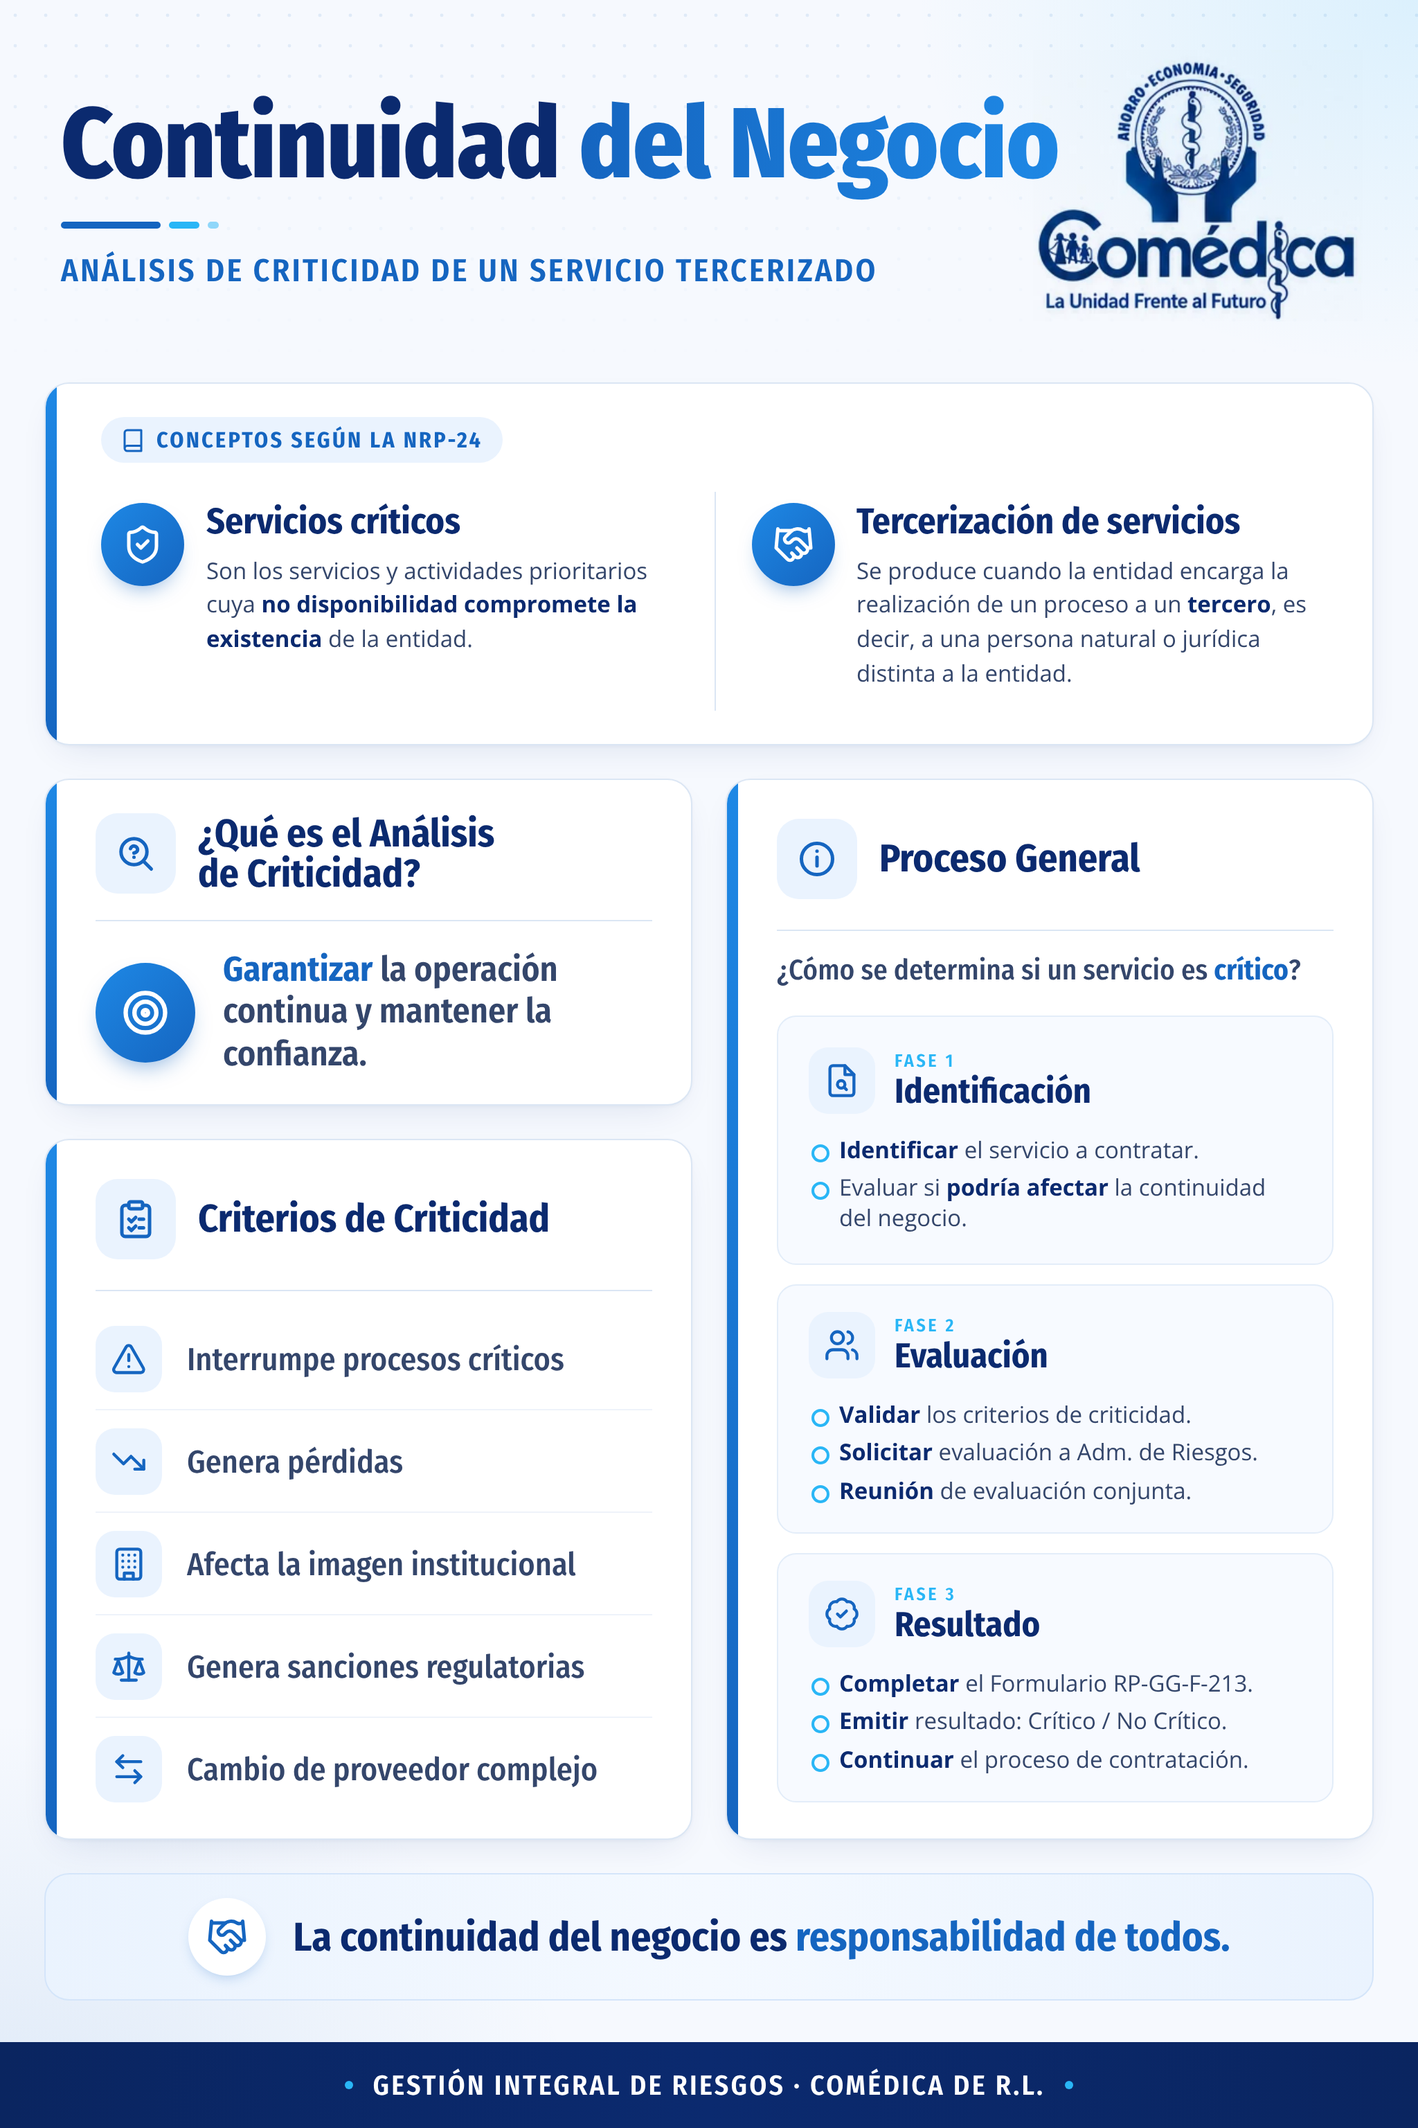
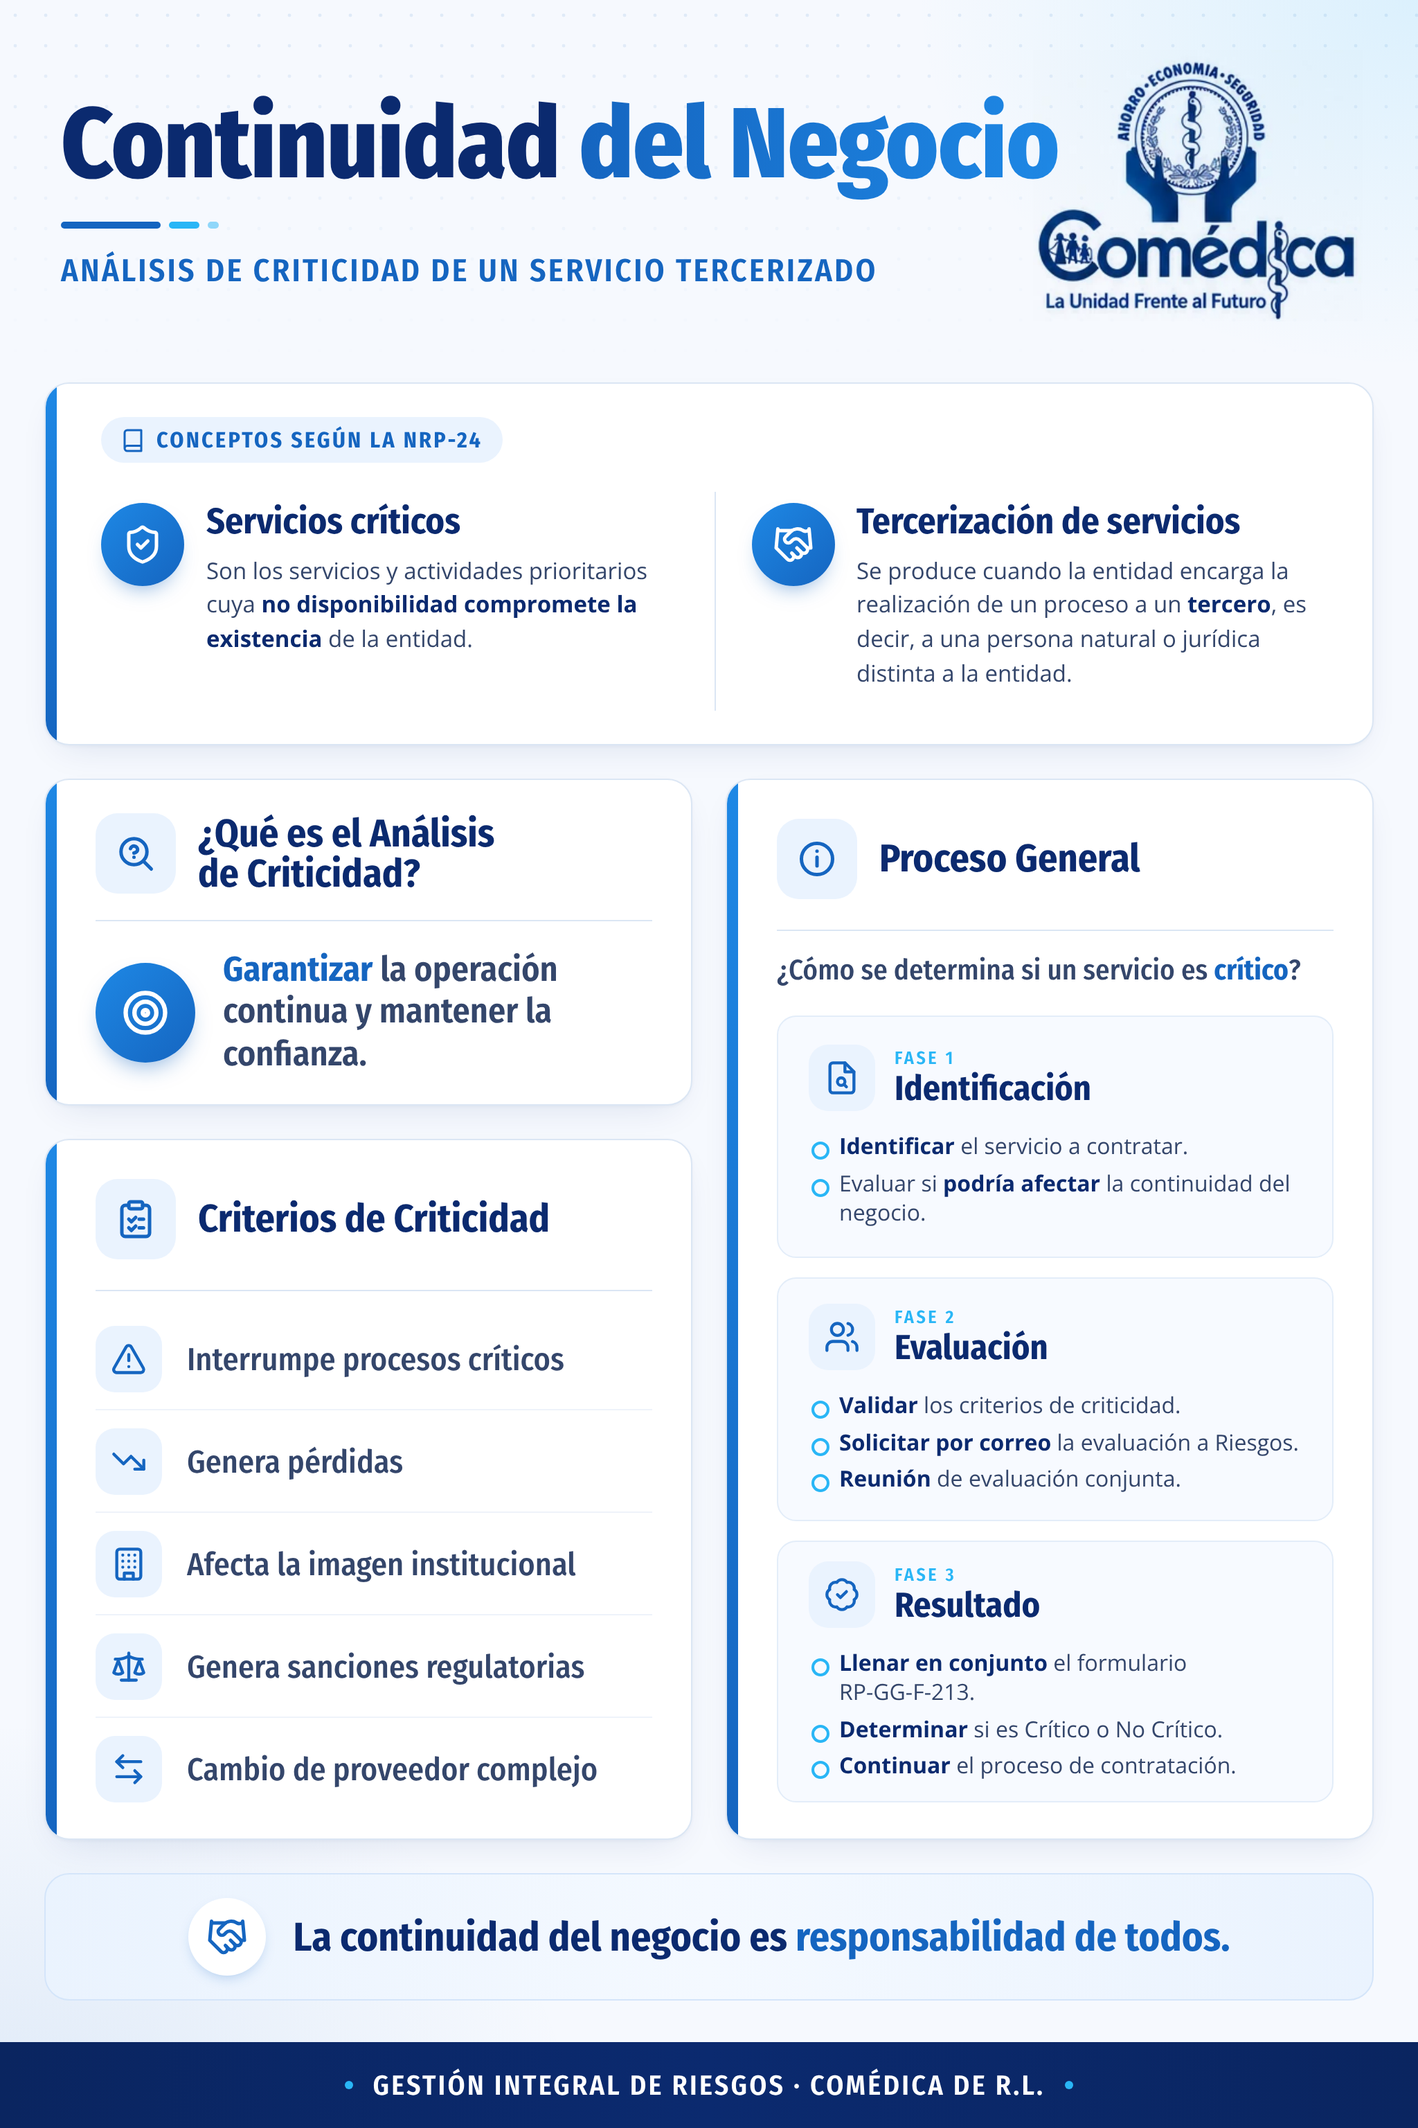
Two final options (modern and classic); request by email, joint form RP-GG-F-213
Claude-Session: https://claude.ai/code/session_013QquNuL1JEfsvtRZYgMi7y

Changed region(s): [[0.5625, 0.5, 0.9062, 0.8438]]

diff --git a/boletin-continuidad-negocios/fuente/opcion2_clasica.html b/boletin-continuidad-negocios/fuente/opcion2_clasica.html
@@ -1,0 +1,73 @@
+<!doctype html><html lang="es"><head><meta charset="utf-8">
+<link href="https://fonts.googleapis.com/css2?family=Fira+Sans+Condensed:wght@500;600;700;800&family=Open+Sans:wght@400;600;700&display=swap" rel="stylesheet">
+<style>
+*{box-sizing:border-box;margin:0;padding:0}
+:root{--navy:#0b2a6f;--d:#0a2d77;--blue:#1565c0;--b2:#1e88e5;--sky:#29b6f6;--line:#cfe0f4;--txt:#24395f}
+body{width:1024px;height:1536px;font-family:'Open Sans',sans-serif;position:relative;overflow:hidden;background:linear-gradient(180deg,#eef4fc 0%,#fff 30%,#fff 70%,#eaf2fc 100%)}
+svg.i{fill:none;stroke:currentColor;stroke-width:2;stroke-linecap:round;stroke-linejoin:round}
+.cor{position:absolute;top:0;left:0;width:240px;height:96px;background:linear-gradient(135deg,var(--blue) 0 28%,transparent 28%),linear-gradient(135deg,transparent 32%,var(--sky) 32% 37%,transparent 37%)}
+.cor2{position:absolute;bottom:66px;right:0;width:200px;height:60px;background:linear-gradient(315deg,#d6e6f8 0 40%,transparent 40%)}
+.title{position:absolute;top:82px;left:32px;font-family:'Fira Sans Condensed';font-weight:800;font-size:64px;line-height:1;color:#fff;padding:18px 30px 22px;border-radius:18px;background:linear-gradient(90deg,var(--d),var(--blue));box-shadow:0 12px 24px -10px rgba(10,45,119,.55)}
+.rule{position:absolute;top:202px;left:36px;width:380px;height:5px;border-radius:3px;background:linear-gradient(90deg,var(--blue),var(--sky))}
+.sub{position:absolute;top:222px;left:36px;font-family:'Fira Sans Condensed';font-weight:700;font-size:24px;letter-spacing:.6px;color:var(--blue)}
+.logo{position:absolute;top:34px;right:30px;width:250px;mix-blend-mode:multiply}
+.ban{position:absolute;top:278px;left:24px;right:24px;height:268px;border-radius:22px;overflow:hidden;background:linear-gradient(115deg,var(--d) 0%,#0d47a8 60%,var(--blue) 100%);box-shadow:0 14px 30px -14px rgba(10,45,119,.6);color:#fff}
+.ban .wm{position:absolute;right:-20px;top:-10px;width:300px;height:300px;color:rgba(255,255,255,.06)}
+.ban .wm svg{width:100%;height:100%;stroke-width:1.2}
+.ban .tg{position:absolute;left:36px;top:26px;font-family:'Fira Sans Condensed';font-weight:700;font-size:17px;letter-spacing:2px;color:var(--sky);display:flex;align-items:center;gap:10px}
+.ban .tg::before{content:"";width:28px;height:3px;background:var(--sky);border-radius:2px}
+.cols{position:absolute;left:36px;right:32px;top:72px;bottom:26px;display:flex;gap:28px}
+.cc{flex:1;display:flex;gap:16px}
+.ci{width:58px;height:58px;border-radius:50%;border:2px solid rgba(255,255,255,.55);background:rgba(255,255,255,.1);display:flex;align-items:center;justify-content:center;flex:none}
+.ci svg{width:28px;height:28px}
+.cc h3{font-family:'Fira Sans Condensed';font-weight:700;font-size:26px;line-height:1.1}
+.cc p{margin-top:8px;font-size:16.5px;line-height:1.5;color:#dbe8ff}
+.cc p b{color:#fff}
+.vd{width:1px;background:rgba(255,255,255,.22)}
+.card{position:absolute;left:24px;width:484px;background:#fff;border:2px solid var(--line);border-radius:18px;box-shadow:0 6px 16px -8px rgba(13,71,168,.2)}
+.card .hd{height:92px;border-radius:16px 16px 0 0;background:linear-gradient(90deg,var(--d),var(--blue));display:flex;align-items:center;gap:16px;padding-left:22px;color:#fff;font-family:'Fira Sans Condensed';font-weight:700;font-size:30px;line-height:1.05}
+.bd{width:62px;height:62px;border-radius:50%;background:#fff;color:var(--blue);display:flex;align-items:center;justify-content:center;flex:none;box-shadow:0 0 0 4px rgba(255,255,255,.25)}
+.bd svg{width:32px;height:32px}
+.c1{top:572px;height:236px}
+.c1 .b{display:flex;align-items:center;gap:20px;padding:30px 26px 0}
+.c1 .tg2{width:84px;height:84px;border-radius:50%;background:linear-gradient(135deg,var(--b2),var(--blue));color:#fff;display:flex;align-items:center;justify-content:center;flex:none}
+.c1 .tg2 svg{width:44px;height:44px}
+.c1 p{border-left:3px solid var(--blue);padding-left:18px;font-family:'Fira Sans Condensed';font-weight:600;font-size:27px;line-height:1.2;color:var(--navy)}
+.c2{top:832px;height:478px}
+.c2 ul{list-style:none;padding:20px 26px 0 30px}
+.c2 li{height:70px;display:flex;align-items:center;gap:18px;border-bottom:1px solid #edf3fb;font-family:'Fira Sans Condensed';font-weight:500;font-size:24px;color:var(--navy)}
+.c2 li:last-child{border-bottom:none}
+.ar{width:20px;height:24px;background:linear-gradient(90deg,var(--blue),var(--sky));clip-path:polygon(0 0,45% 0,100% 50%,45% 100%,0 100%,55% 50%);flex:none}
+.steps{position:absolute;top:566px;left:530px;right:24px}
+.st{height:93px;display:flex;align-items:center;border-bottom:1.5px solid #dbe7f5}
+.st:last-child{border-bottom:none}
+.n{width:56px;height:56px;border-radius:50%;background:radial-gradient(circle at 35% 30%,#3b8ae6,var(--d));color:#fff;font-family:'Fira Sans Condensed';font-weight:800;font-size:30px;display:flex;align-items:center;justify-content:center;flex:none;box-shadow:0 6px 12px -6px rgba(10,45,119,.7)}
+.ic{width:62px;height:62px;border-radius:50%;border:2px solid var(--blue);color:var(--blue);margin-left:12px;display:flex;align-items:center;justify-content:center;flex:none;background:#fff}
+.ic svg{width:30px;height:30px}
+.l{margin-left:18px;font-family:'Fira Sans Condensed';font-weight:600;font-size:19.5px;line-height:1.18;color:var(--blue)}
+.close{position:absolute;left:90px;right:90px;top:1336px;height:100px;background:#fff;border:2px solid var(--line);border-radius:18px;display:flex;align-items:center;justify-content:center;gap:26px;box-shadow:0 6px 16px -8px rgba(13,71,168,.2)}
+.close .h{width:74px;height:74px;border-radius:50%;background:linear-gradient(135deg,var(--b2),var(--d));color:#fff;display:flex;align-items:center;justify-content:center}
+.close .h svg{width:40px;height:40px}
+.close p{border-left:3px solid var(--navy);padding-left:24px;font-family:'Fira Sans Condensed';font-weight:700;font-size:31px;line-height:1.08;color:var(--navy)}
+.foot{position:absolute;bottom:0;left:0;right:0;height:66px;background:linear-gradient(90deg,var(--d),var(--blue),var(--d));color:#fff;display:flex;align-items:center;justify-content:center;font-family:'Fira Sans Condensed';font-weight:600;font-size:22px;letter-spacing:.8px}
+</style></head><body>
+<div class="cor"></div><div class="cor2"></div>
+<div class="title">Continuidad del Negocio</div><div class="rule"></div>
+<div class="sub">ANÁLISIS DE CRITICIDAD DE UN SERVICIO TERCERIZADO</div>
+<img class="logo" src="logo.png" alt="Comédica">
+<div class="ban">
+  <div class="wm"><svg viewBox="0 0 24 24" class="i"><path d="M20 13c0 5-3.5 7.5-7.7 9a1 1 0 0 1-.7 0C7.5 20.5 4 18 4 13V6a1 1 0 0 1 1-1c2 0 4.5-1.2 6.2-2.7a1.2 1.2 0 0 1 1.5 0C14.5 3.8 17 5 19 5a1 1 0 0 1 1 1z"/><path d="m9 12 2 2 4-4"/></svg></div>
+  <div class="tg">CONCEPTOS SEGÚN LA NRP-24</div>
+  <div class="cols">
+    <div class="cc"><div class="ci"><svg viewBox="0 0 24 24" class="i"><path d="M20 13c0 5-3.5 7.5-7.7 9a1 1 0 0 1-.7 0C7.5 20.5 4 18 4 13V6a1 1 0 0 1 1-1c2 0 4.5-1.2 6.2-2.7a1.2 1.2 0 0 1 1.5 0C14.5 3.8 17 5 19 5a1 1 0 0 1 1 1z"/><path d="m9 12 2 2 4-4"/></svg></div><div><h3>Servicios críticos</h3><p>Son los servicios y actividades prioritarios cuya <b>no disponibilidad compromete la existencia</b> de la entidad.</p></div></div>
+    <div class="vd"></div>
+    <div class="cc"><div class="ci"><svg viewBox="0 0 24 24" class="i"><path d="m11 17 2 2a1 1 0 1 0 3-3"/><path d="m14 14 2.5 2.5a1 1 0 1 0 3-3l-3.88-3.88a3 3 0 0 0-4.24 0l-.88.88a1 1 0 1 1-3-3l2.81-2.81a5.79 5.79 0 0 1 7.06-.87l.47.28a2 2 0 0 0 1.42.25L21 4"/><path d="m21 3 1 11h-2"/><path d="M3 3 2 14l6.5 6.5a1 1 0 1 0 3-3"/><path d="M3 4h8"/></svg></div><div><h3>Tercerización de servicios</h3><p>Se produce cuando la entidad encarga la realización de un proceso a un <b>tercero</b>, es decir, a una persona natural o jurídica distinta a la entidad.</p></div></div>
+  </div>
+</div>
+<div class="card c1"><div class="hd"><div class="bd"><svg class="i" viewBox="0 0 24 24"><circle cx="11" cy="11" r="7.5"/><path d="m21 21-4.6-4.6"/><path d="M9 9.2a2.1 2.1 0 0 1 4.1.6c0 1.4-2.1 2-2.1 2"/><path d="M11 14.2h.01"/></svg></div>¿Qué es el Análisis<br>de Criticidad?</div>
+  <div class="b"><div class="tg2"><svg class="i" viewBox="0 0 24 24"><circle cx="12" cy="12" r="9"/><circle cx="12" cy="12" r="5"/><circle cx="12" cy="12" r="1.2"/></svg></div><p>Garantizar la operación continua y mantener la confianza.</p></div></div>
+<div class="card c2"><div class="hd"><div class="bd"><svg class="i" viewBox="0 0 24 24"><rect width="8" height="4" x="8" y="2" rx="1"/><path d="M16 4h2a2 2 0 0 1 2 2v14a2 2 0 0 1-2 2H6a2 2 0 0 1-2-2V6a2 2 0 0 1 2-2h2"/><path d="m8 12 1.5 1.5L12 11"/><path d="M14 12h2.5"/><path d="m8 17 1.5 1.5L12 16"/><path d="M14 17h2.5"/></svg></div>Criterios de Criticidad</div><ul><li><span class="ar"></span>Interrumpe procesos críticos</li><li><span class="ar"></span>Genera pérdidas</li><li><span class="ar"></span>Afecta la imagen institucional</li><li><span class="ar"></span>Genera sanciones regulatorias</li><li><span class="ar"></span>Cambio de proveedor complejo</li></ul></div>
+<div class="steps"><div class="st"><div class="n">1</div><div class="ic"><svg class="i" viewBox="0 0 24 24"><path d="M14 2H6a2 2 0 0 0-2 2v16a2 2 0 0 0 2 2h12a2 2 0 0 0 2-2V8z"/><path d="M14 2v6h6"/><circle cx="11.5" cy="14.5" r="2.5"/><path d="M13.3 16.3 15 18"/></svg></div><div class="l">Identificar el servicio</div></div><div class="st"><div class="n">2</div><div class="ic"><svg class="i" viewBox="0 0 24 24"><path d="M20 13c0 5-3.5 7.5-7.7 9a1 1 0 0 1-.7 0C7.5 20.5 4 18 4 13V6a1 1 0 0 1 1-1c2 0 4.5-1.2 6.2-2.7a1.2 1.2 0 0 1 1.5 0C14.5 3.8 17 5 19 5a1 1 0 0 1 1 1z"/><path d="M9.6 9.5a2.5 2.5 0 0 1 4.8.8c0 1.7-2.4 2.3-2.4 2.3"/><path d="M12 16h.01"/></svg></div><div class="l">¿Podría afectar la continuidad<br>del negocio? (Evaluación)</div></div><div class="st"><div class="n">3</div><div class="ic"><svg class="i" viewBox="0 0 24 24"><rect width="8" height="4" x="8" y="2" rx="1"/><path d="M16 4h2a2 2 0 0 1 2 2v14a2 2 0 0 1-2 2H6a2 2 0 0 1-2-2V6a2 2 0 0 1 2-2h2"/><path d="m9 14 2 2 4-4"/></svg></div><div class="l">Validar criterios<br>de criticidad</div></div><div class="st"><div class="n">4</div><div class="ic"><svg class="i" viewBox="0 0 24 24"><circle cx="12" cy="8" r="4.5"/><path d="M20 21a8 8 0 0 0-16 0"/></svg></div><div class="l">Solicitar por correo evaluación<br>a Administración de Riesgos</div></div><div class="st"><div class="n">5</div><div class="ic"><svg class="i" viewBox="0 0 24 24"><path d="M16 21v-2a4 4 0 0 0-4-4H6a4 4 0 0 0-4 4v2"/><circle cx="9" cy="7" r="4"/><path d="M22 21v-2a4 4 0 0 0-3-3.9"/><path d="M16 3.1a4 4 0 0 1 0 7.8"/></svg></div><div class="l">Reunión de<br>evaluación conjunta</div></div><div class="st"><div class="n">6</div><div class="ic"><svg class="i" viewBox="0 0 24 24"><path d="M12 22h6a2 2 0 0 0 2-2V7l-5-5H6a2 2 0 0 0-2 2v10"/><path d="M14 2v4a2 2 0 0 0 2 2h4"/><path d="M10.4 12.6a2 2 0 1 1 3 3L8 21l-4 1 1-4Z"/></svg></div><div class="l">Llenar en conjunto el<br>Formulario RP-GG-F-213</div></div><div class="st"><div class="n">7</div><div class="ic"><svg class="i" viewBox="0 0 24 24"><path d="M3.85 8.62a4 4 0 0 1 4.78-4.77 4 4 0 0 1 6.74 0 4 4 0 0 1 4.78 4.78 4 4 0 0 1 0 6.74 4 4 0 0 1-4.77 4.78 4 4 0 0 1-6.75 0 4 4 0 0 1-4.78-4.77 4 4 0 0 1 0-6.76Z"/><path d="m9 12 2 2 4-4"/></svg></div><div class="l">Determinar si el servicio es<br>Crítico o No Crítico</div></div><div class="st"><div class="n">8</div><div class="ic"><svg class="i" viewBox="0 0 24 24"><path d="m11 17 2 2a1 1 0 1 0 3-3"/><path d="m14 14 2.5 2.5a1 1 0 1 0 3-3l-3.88-3.88a3 3 0 0 0-4.24 0l-.88.88a1 1 0 1 1-3-3l2.81-2.81a5.79 5.79 0 0 1 7.06-.87l.47.28a2 2 0 0 0 1.42.25L21 4"/><path d="m21 3 1 11h-2"/><path d="M3 3 2 14l6.5 6.5a1 1 0 1 0 3-3"/><path d="M3 4h8"/></svg></div><div class="l">Continuar proceso<br>de contratación</div></div></div>
+<div class="close"><div class="h"><svg viewBox="0 0 24 24" class="i"><path d="m11 17 2 2a1 1 0 1 0 3-3"/><path d="m14 14 2.5 2.5a1 1 0 1 0 3-3l-3.88-3.88a3 3 0 0 0-4.24 0l-.88.88a1 1 0 1 1-3-3l2.81-2.81a5.79 5.79 0 0 1 7.06-.87l.47.28a2 2 0 0 0 1.42.25L21 4"/><path d="m21 3 1 11h-2"/><path d="M3 3 2 14l6.5 6.5a1 1 0 1 0 3-3"/><path d="M3 4h8"/></svg></div><p>La continuidad del negocio es<br>responsabilidad de todos.</p></div>
+<div class="foot">GESTIÓN INTEGRAL DE RIESGOS - COMÉDICA DE R.L.</div>
+</body></html>

diff --git a/boletin-continuidad-negocios/fuente/boletin_final.html b/boletin-continuidad-negocios/fuente/boletin_final.html
@@ -125,9 +125,9 @@ svg.i{fill:none;stroke:currentColor;stroke-width:2;stroke-linecap:round;stroke-l
 .ph{padding:20px 22px!important}.ph p{font-size:17.5px!important;margin-top:10px!important}
 </style><style>
 .phs{top:170px!important;bottom:26px!important;gap:14px!important}
-.ph{padding:16px 22px!important}
+.ph{padding:14px 22px!important}
 .pl{list-style:none;margin-top:10px}
-.pl li{position:relative;padding-left:22px;font-size:16.5px;line-height:1.35;color:var(--txt);margin-top:5px}
+.pl li{position:relative;padding-left:22px;font-size:16px;line-height:1.35;color:var(--txt);margin-top:5px}
 .pl li b{color:var(--navy)}
 .pl li::before{content:"";position:absolute;left:2px;top:7px;width:9px;height:9px;border-radius:50%;border:2px solid var(--sky)}
 .c3 .intro{padding-top:16px!important;font-size:20.5px!important;white-space:nowrap}
@@ -177,8 +177,8 @@ svg.i{fill:none;stroke:currentColor;stroke-width:2;stroke-linecap:round;stroke-l
   <p class="intro">¿Cómo se determina si un servicio es <b>crítico</b>?</p>
   <div class="phs">
   <div class="ph"><div class="phh"><div class="chip"><svg class="i" viewBox="0 0 24 24"><path d="M14 2H6a2 2 0 0 0-2 2v16a2 2 0 0 0 2 2h12a2 2 0 0 0 2-2V8z"/><path d="M14 2v6h6"/><circle cx="11.5" cy="14.5" r="2.5"/><path d="M13.3 16.3 15 18"/></svg></div><div><small>FASE 1</small>Identificación</div></div><ul class="pl"><li><b>Identificar</b> el servicio a contratar.</li><li>Evaluar si <b>podría afectar</b> la continuidad del negocio.</li></ul></div>
-  <div class="ph"><div class="phh"><div class="chip"><svg class="i" viewBox="0 0 24 24"><path d="M16 21v-2a4 4 0 0 0-4-4H6a4 4 0 0 0-4 4v2"/><circle cx="9" cy="7" r="4"/><path d="M22 21v-2a4 4 0 0 0-3-3.9"/><path d="M16 3.1a4 4 0 0 1 0 7.8"/></svg></div><div><small>FASE 2</small>Evaluación</div></div><ul class="pl"><li><b>Validar</b> los criterios de criticidad.</li><li><b>Solicitar</b> evaluación a Adm. de Riesgos.</li><li><b>Reunión</b> de evaluación conjunta.</li></ul></div>
-  <div class="ph"><div class="phh"><div class="chip"><svg class="i" viewBox="0 0 24 24"><path d="M3.85 8.62a4 4 0 0 1 4.78-4.77 4 4 0 0 1 6.74 0 4 4 0 0 1 4.78 4.78 4 4 0 0 1 0 6.74 4 4 0 0 1-4.77 4.78 4 4 0 0 1-6.75 0 4 4 0 0 1-4.78-4.77 4 4 0 0 1 0-6.76Z"/><path d="m9 12 2 2 4-4"/></svg></div><div><small>FASE 3</small>Resultado</div></div><ul class="pl"><li><b>Completar</b> el Formulario RP-GG-F-213.</li><li><b>Emitir</b> resultado: Crítico / No Crítico.</li><li><b>Continuar</b> el proceso de contratación.</li></ul></div>
+  <div class="ph"><div class="phh"><div class="chip"><svg class="i" viewBox="0 0 24 24"><path d="M16 21v-2a4 4 0 0 0-4-4H6a4 4 0 0 0-4 4v2"/><circle cx="9" cy="7" r="4"/><path d="M22 21v-2a4 4 0 0 0-3-3.9"/><path d="M16 3.1a4 4 0 0 1 0 7.8"/></svg></div><div><small>FASE 2</small>Evaluación</div></div><ul class="pl"><li><b>Validar</b> los criterios de criticidad.</li><li><b>Solicitar por correo</b> la evaluación a Riesgos.</li><li><b>Reunión</b> de evaluación conjunta.</li></ul></div>
+  <div class="ph"><div class="phh"><div class="chip"><svg class="i" viewBox="0 0 24 24"><path d="M3.85 8.62a4 4 0 0 1 4.78-4.77 4 4 0 0 1 6.74 0 4 4 0 0 1 4.78 4.78 4 4 0 0 1 0 6.74 4 4 0 0 1-4.77 4.78 4 4 0 0 1-6.75 0 4 4 0 0 1-4.78-4.77 4 4 0 0 1 0-6.76Z"/><path d="m9 12 2 2 4-4"/></svg></div><div><small>FASE 3</small>Resultado</div></div><ul class="pl"><li><b>Llenar en conjunto</b> el formulario <span style="white-space:nowrap">RP-GG-F-213</span>.</li><li><b>Determinar</b> si es Crítico o No Crítico.</li><li><b>Continuar</b> el proceso de contratación.</li></ul></div>
   </div>
 </div>
 
